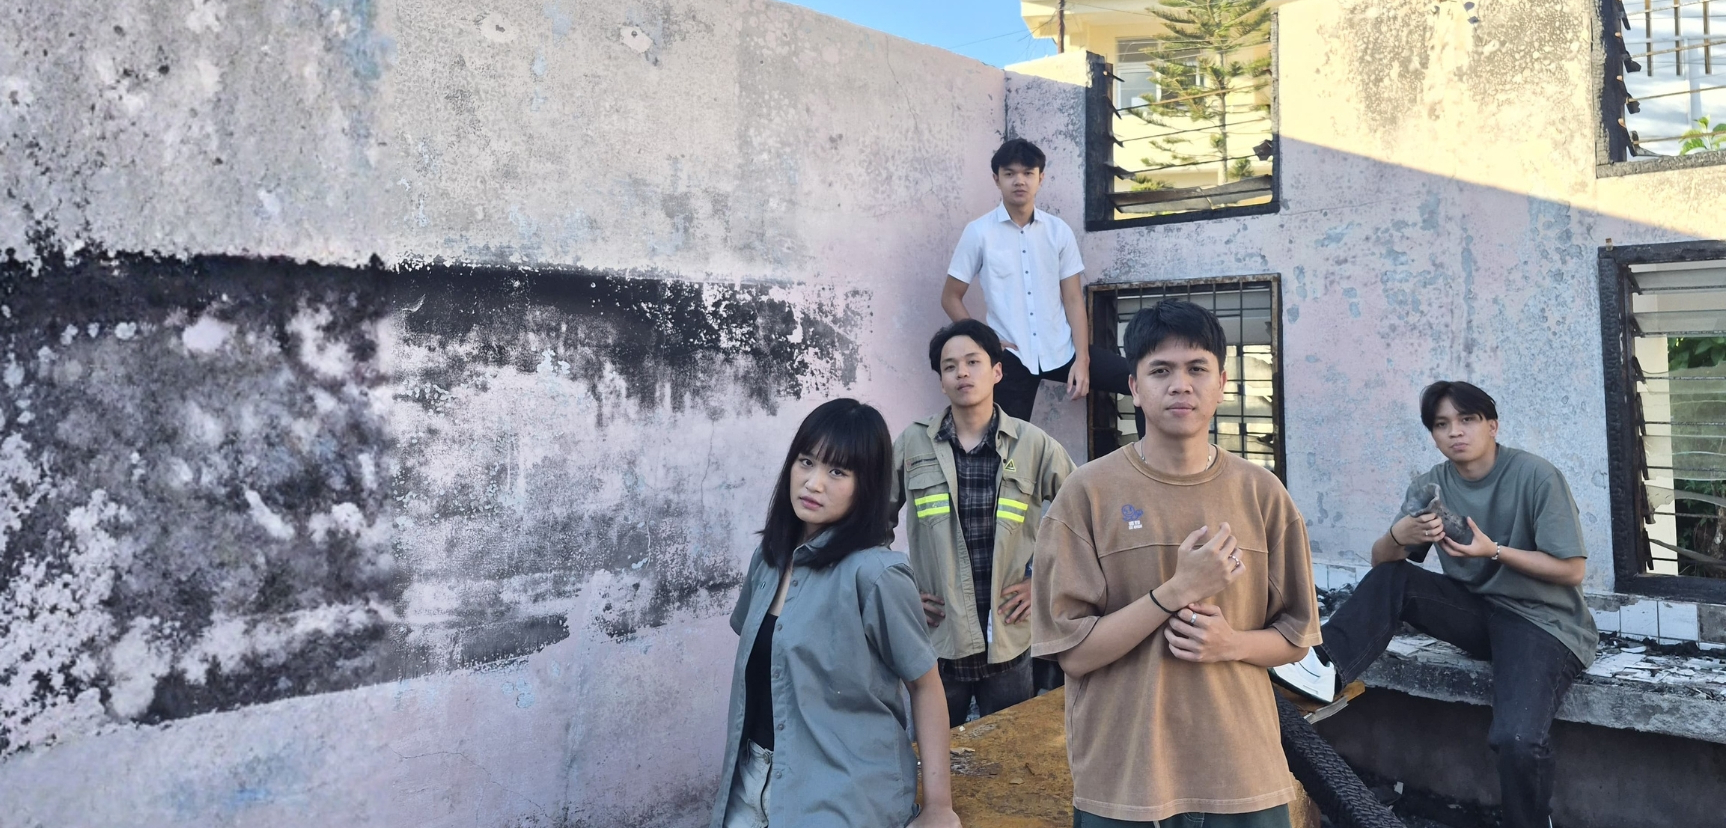
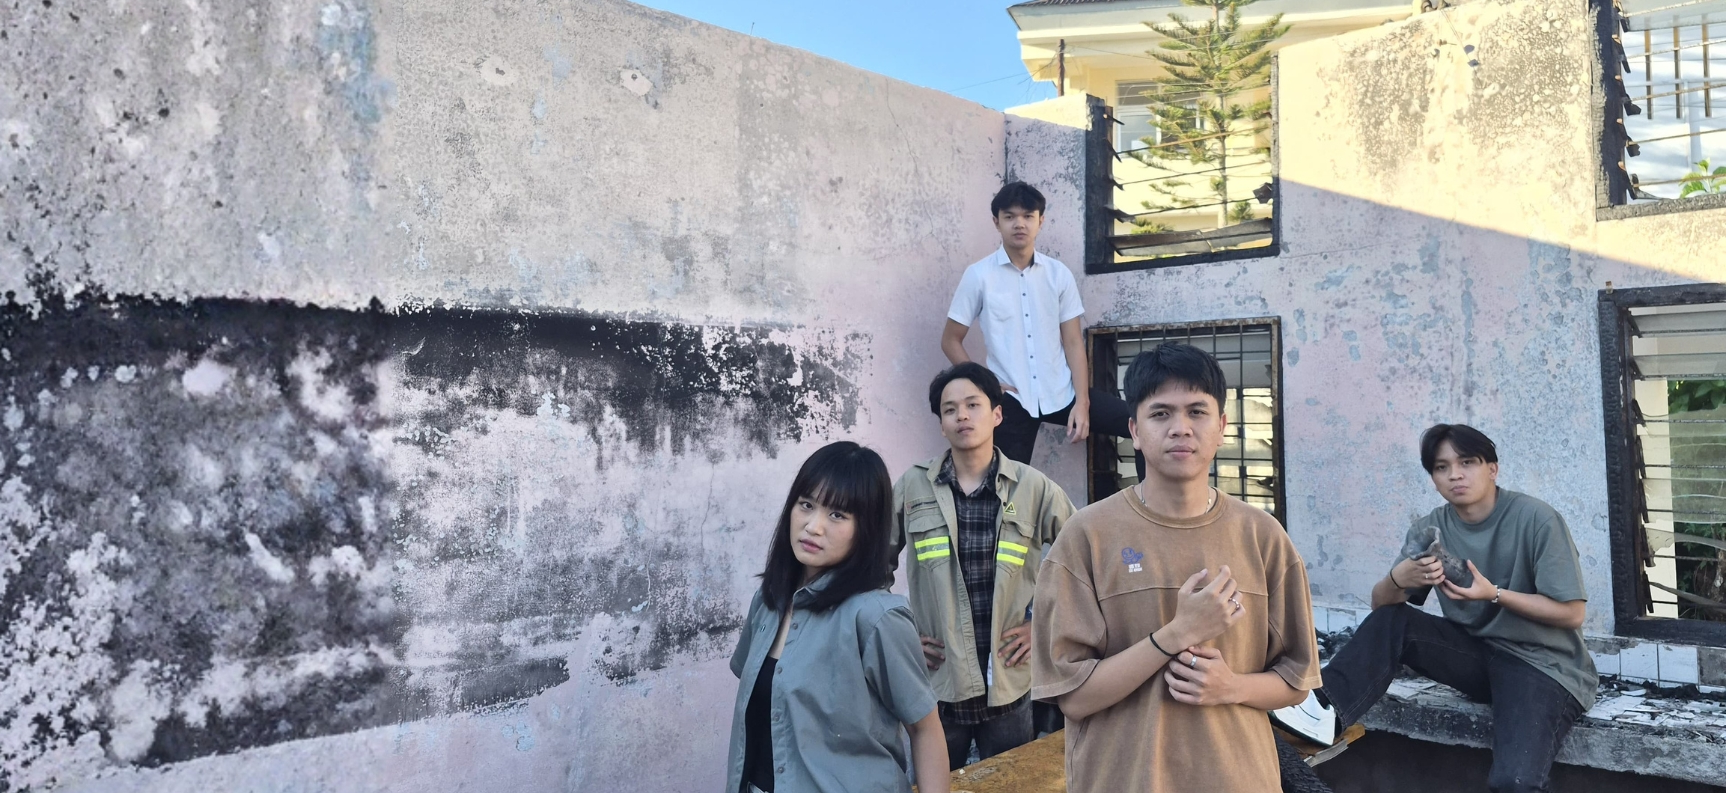
hampir

diff --git a/components/public-footer.tsx b/components/public-footer.tsx
@@ -5,11 +5,25 @@ export function PublicFooter() {
   return (
     <footer>
       <div className="shell footer-grid">
-        <div><div className="brand light-brand"><span className="brand-mark"><Landmark size={21} /></span><span><strong>DPM FIPP</strong><small>UNIVERSITAS NEGERI MANADO</small></span></div><p>Ruang representasi, aspirasi, dan pengawasan mahasiswa FIPP UNIMA.</p></div>
+        <div><div className="brand light-brand">
+          <span className="brand-mark">
+            <Landmark size={23} />
+            </span>
+            <span>
+              <strong>DPM FIPP</strong>
+              <small>UNIVERSITAS NEGERI MANADO</small>
+            </span>
+              </div>
+              <p>Dewan Perwakilan Mahasiswa Fakultas Ilmu Pendidikan dan Psikologi Universitas Negeri Manado.</p>
+              </div>
         <div><b>Layanan</b><Link href="/ddas/kirim">Kirim Aspirasi</Link><Link href="/ddas/tracking">Lacak Aspirasi</Link><Link href="/survei">Survei</Link><Link href="/admin/login">Portal Admin</Link></div>
         <div><b>Informasi</b><Link href="/berita">Publikasi</Link><Link href="/program">Program Kerja</Link><Link href="/ormawa">ORMAWA</Link></div>
+        <div><b>Lokasi</b><Link href="https://www.google.com/maps/place/8R7W%2B3JP,+Matani+Satu,+Kec.+Tomohon+Tengah,+Kota+Tomohon,+Sulawesi+Utara/@1.3128091,124.8464812,21z/data=!4m14!1m7!3m6!1s0x32876ca73a7920a9:0xf4642be711c18fe5!2sFakultas+Ilmu+Pendidikan+dan+Psikologi+UNIMA!8m2!3d1.3131933!4d124.8459334!16s%2Fg%2F1hm37b055!3m5!1s0x32876ca7462ff247:0x205d4b5b39951139!8m2!3d1.3127302!4d124.8465933!16s%2Fg%2F11sgvyjmlr?entry=ttu&g_ep=EgoyMDI2MDgzMC4wIKXMDSoASAFQAw%3D%3D" target="_blank">Kampus FIPP Universitas Negeri Manado Jl. Kampus Kaaten, Matani Satu, Kota Tomohon, Sulawesi Utara, 95362.</Link></div>
+        <div><b>Media Sosial</b><Link href="https://www.instagram.com/dpm_fipp_unima/" target="_blank">Instagram</Link><Link href="https://www.gmail.com/dpmfippunima@gmail.com" target="_blank">Email</Link></div>
       </div>
-      <div className="shell copyright">© 2026 DPM FIPP UNIMA | Developed by @hhholyyy_ <span>Bahasa Indonesia · WITA (UTC+8)</span></div>
+      <div className="shell copyright">
+        © 2026 DPM FIPP - Universitas Negeri Manado. All Rights Reserved.<span><Link href="https://www.instagram.com/hhholyyy_/"> Developed by @hhholyyy_</Link></span>
+      </div>
     </footer>
   );
 }

diff --git a/components/v4-public.tsx b/components/v4-public.tsx
@@ -21,6 +21,7 @@ import { PublicComments } from './public-comments';
 import { DdasWorkspace } from './ddas-workspace';
 import { usePublicPortal } from './use-public-portal';
 import { formatPublicDate, publicAssetUrl } from '@/lib/public-portal';
+import { type } from 'os';
 
 const campusHero='/fipp-campus-hero.png';
 
@@ -66,7 +67,6 @@ export function V4Home() {
         <div className="v5-shell">
           <div className="v5-hero-copy">
             <span>DEWAN PERWAKILAN MAHASISWA</span>
-            <h1>{savedHome.title??'DPM FIPP UNIMA'}</h1>
             <h2>{savedHome.subtitle??'Representasi, Aspirasi, Legislasi, dan Pengawasan Mahasiswa.'}</h2>
             <p>{savedHome.paragraph??'DPM FIPP UNIMA hadir sebagai jembatan komunikasi antara mahasiswa dan fakultas untuk mendorong perubahan, transparansi, dan kemajuan bersama.'}</p>
             <div>
@@ -225,10 +225,11 @@ export function V4About() {
           <small>Beranda › Tentang</small>
           <h1>Tentang DPM FIPP UNIMA</h1>
           <h2>Representasi, Aspirasi, Legislasi, dan Pengawasan Mahasiswa.</h2>
+       
           <p>{about?.description??'Informasi Tentang DPM belum diisi melalui Portal Admin.'}</p>
           <div className="v4-period">
             <span>
-              Berdiri Sejak<b>2006</b>
+              Dewan Perwakilan<b>Mahasiswa</b>
             </span>
             <span>
               Periode Aktif<b>{data.period.name??'Belum diatur'}</b>

diff --git a/app/manifest.ts b/app/manifest.ts
@@ -1,2 +1,2 @@
 import type { MetadataRoute } from 'next';
-export default function manifest():MetadataRoute.Manifest{return {name:'DPM FIPP UNIMA',short_name:'DPM FIPP',description:'Portal kelembagaan digital DPM FIPP UNIMA',start_url:'/',display:'standalone',background_color:'#f7f5ef',theme_color:'#0b5b43',lang:'id',icons:[{src:'/favicon.svg',sizes:'any',type:'image/svg+xml'}]}}
+export default function manifest():MetadataRoute.Manifest{return {name:'DPM FIPP UNIMA',short_name:'DPM FIPP',description:'Portal kelembagaan digital DPM FIPP UNIMA',start_url:'/',display:'standalone',background_color:'#f7f5ef',theme_color:'#0b5b43',lang:'id',icons:[{src:'/favicon-dpm.png',sizes:'any',type:'image/svg+xml'}]}}
